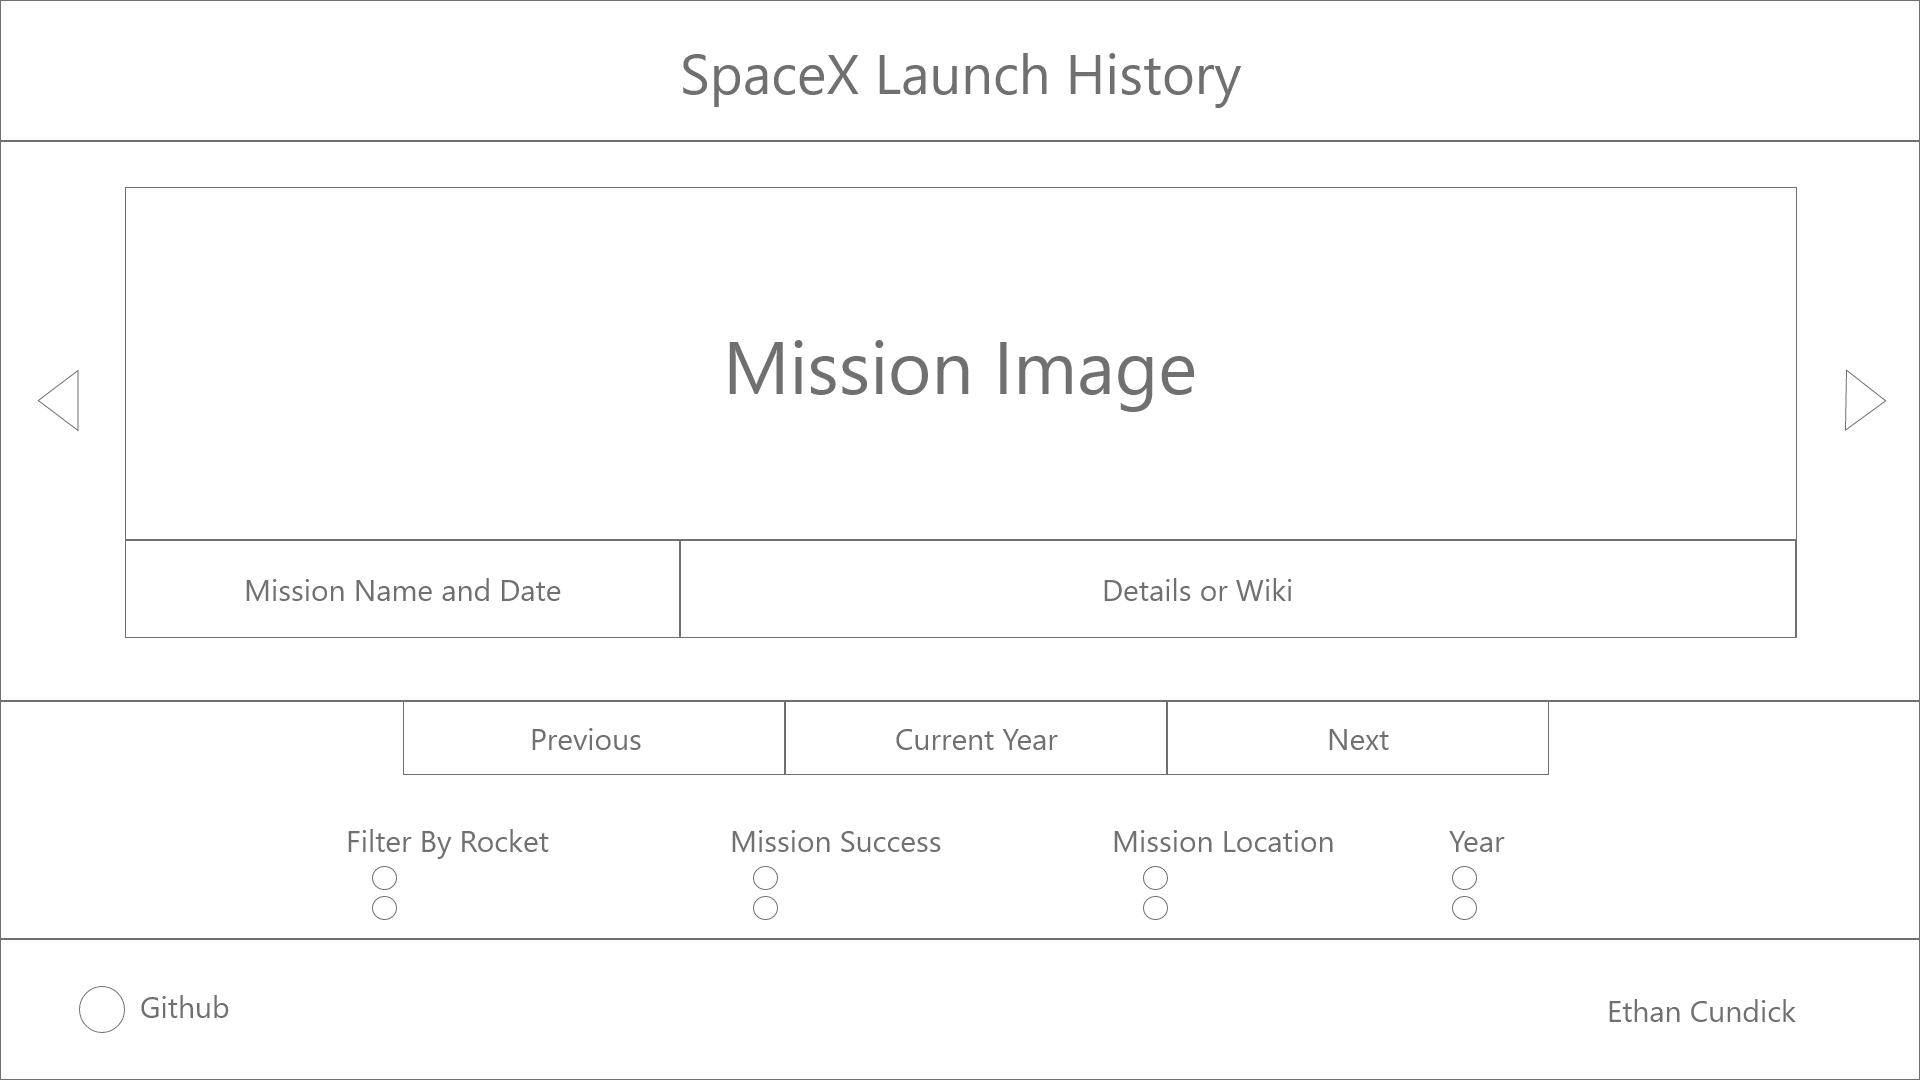
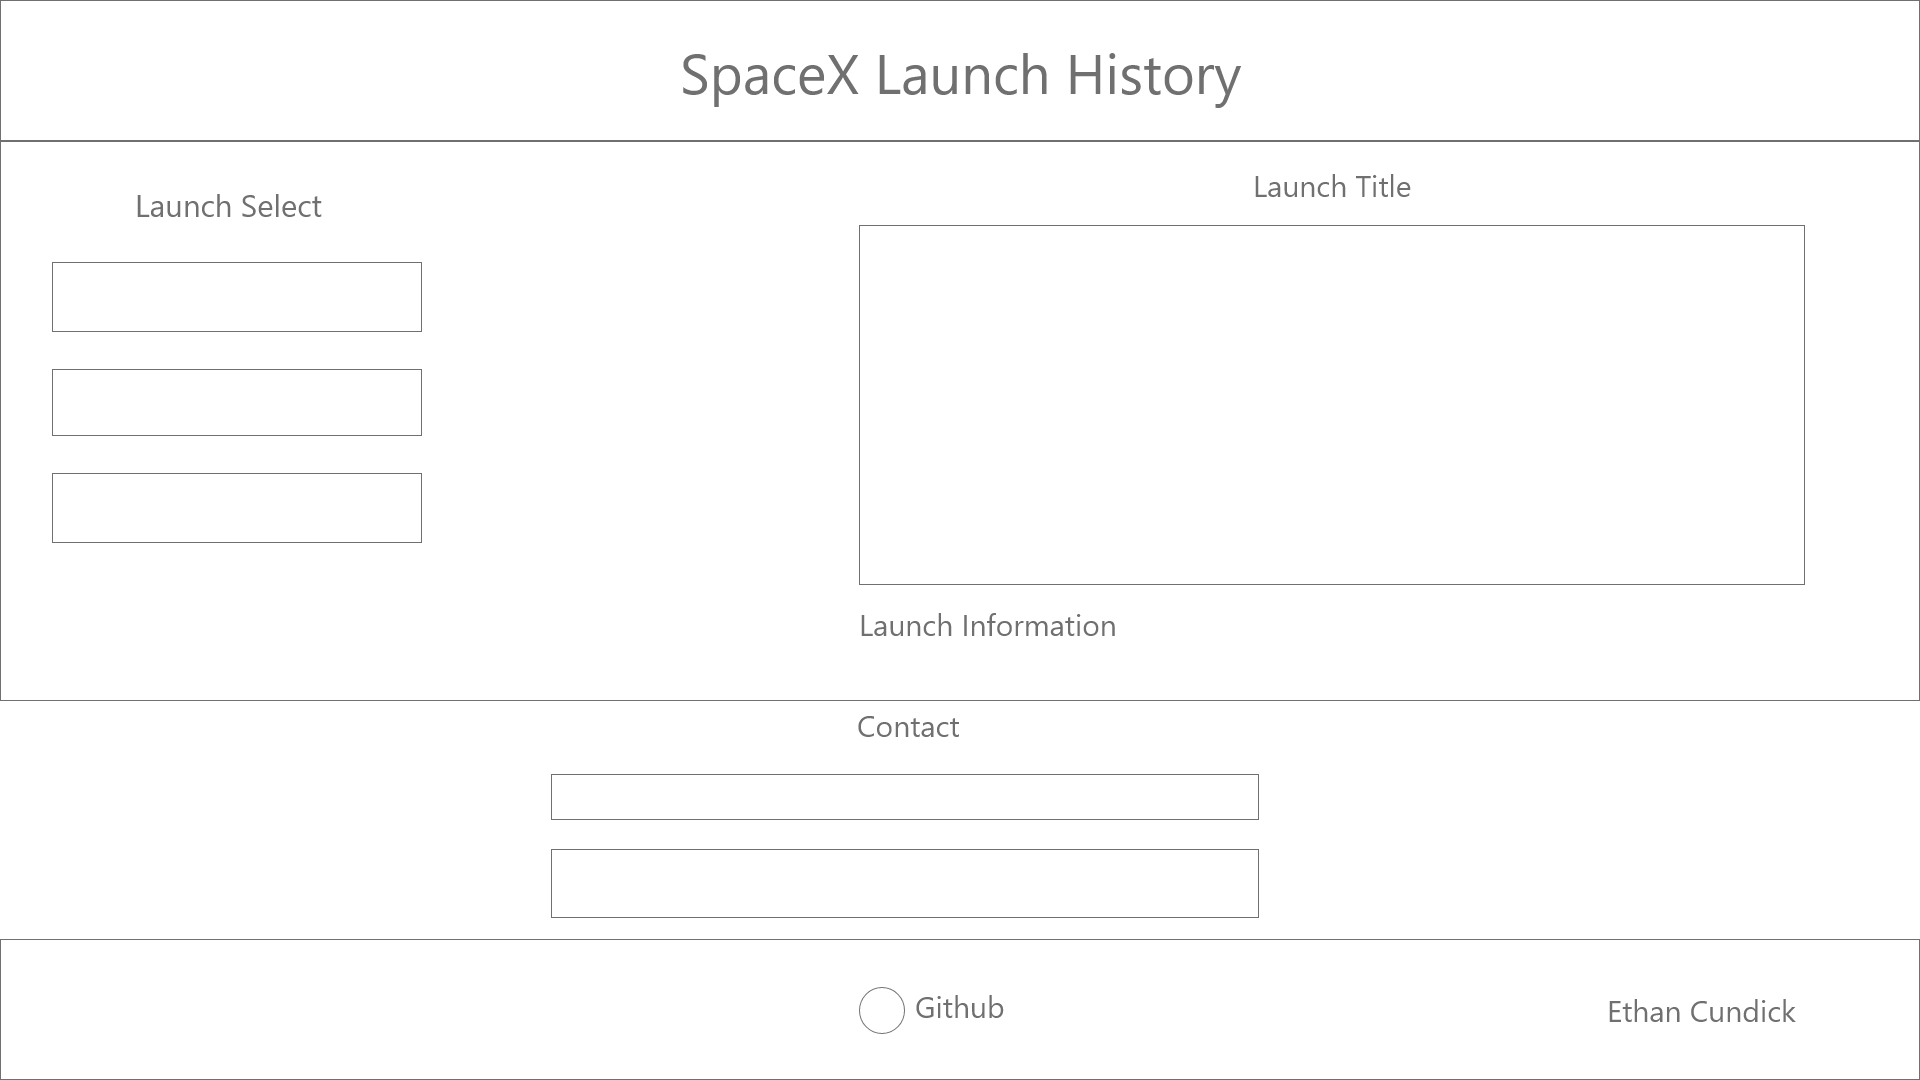
Readme updated and Wireframe image added

diff --git a/README.md b/README.md
@@ -5,16 +5,17 @@
 
 ### User stories 
 
-1)Users need be able to search by SpaceX launches by year. 
-2)Users need to be able to choose rocket where applicable. 
-3)Users need to be able to select mission in year where applicable. 
-4)Users need Inforamtion on mission when available. 
-5)Users need mission video where available. 
-6)Users need a way of cbeing able to contact the site owner. 
+1) Users need be able to search by SpaceX launches by year. 
+2) Users need to be able to choose rocket where applicable. 
+3) Users need to be able to select mission in year where applicable. 
+4) Users need Inforamtion on mission when available. 
+5) Users need mission video where available. 
+6) Users need a way of being able to contact the site owner. 
+7) Users must be able to use the site on both desktop and mobile devices. 
 
+Wireframe here
 
-
-## Features
+ ## Features
 - Filter by year - Users can select year to filter flights
 - Filter by rocket if applicable - Users can select rocket type if there are different rockets flown that year. 
 - Select which mission - Users can select missions within year selected. 
@@ -34,37 +35,27 @@
 
 ## Testing
 
-In this section, you need to convince the assessor that you have conducted enough testing to legitimately believe that the site works well. Essentially, in this part you will want to go over all of your user stories from the UX section and ensure that they all work as intended, with the project providing an easy and straightforward way for the users to achieve their goals.
+### Launch Search Testing
+- Used year dropdown to ensure it returned an array of years, selected multiple years and ensured they returned rockets and missions where applicable. 
 
-Whenever it is feasible, prefer to automate your tests, and if you've done so, provide a brief explanation of your approach, link to the test file(s) and explain how to run them.
+- Ensured rocket drop down appeared only when there where multiple rockets used in a year and selected each rocket to see if missions updated per rocket. 
 
-For any scenarios that have not been automated, test the user stories manually and provide as much detail as is relevant. A particularly useful form for describing your testing process is via scenarios, such as:
+-  Ensured mission drop down always returned a list of missions. 
 
-### Contact form:
-Go to the "Contact Us" page
-Try to submit the empty form and verify that an error message about the required fields appears
-Try to submit the form with an invalid email address and verify that a relevant error message appears
-Try to submit the form with all inputs valid and verify that a success message appears.
-In addition, you should mention in this section how your project looks and works on different browsers and screen sizes.
+- Ensure that mission information was updated on change of mission selection. 
 
-You should also mention in this section any interesting bugs or problems you discovered during your testing, even if you haven't addressed them yet.
+### Contact form  Testing
+- Ensured when user entered email address that it is in a valid format by using regex. If invalid this will highlight the box border in red. Tried a mixture of address and only correctly formatted addresses worked.
 
-If this section grows too long, you may want to split it off into a separate file and link to it from here.
+- Ensured that the user has left a message in the box by checking its value is not empty, it will highlight red if empty. Tried to leave blank and highlighted red.
+
+- Ensured that above criteria is met before submit/send button can be used. Clicked on submit when box above wasnt met and message does not send. 
+
+### Responsiveness Testing
+
+- Ensured site works on mobile and desktop by testing on desktop, tablet and pc devices. Have checked also in browser developer tools to see how it performed. 
 
 ## Deployment
 
-This section should describe the process you went through to deploy the project to a hosting platform (e.g. GitHub Pages or Heroku).
+This site was deployed into Azure blob storage, to do this I simply enabled static websites to be browsable on the blob storage and then upload the files into it, I then created a CNAME to point to the DNS name of the blob storage. 
 
-In particular, you should provide all details of the differences between the deployed version and the development version, if any, including:
-
-Different values for environment variables (Heroku Config Vars)?
-Different configuration files?
-Separate git branch?
-In addition, if it is not obvious, you should also describe how to run your code locally.
-
-##Credits
-
-Content
-
-The photos used in this site were obtained from ...
-Acknowledgements
